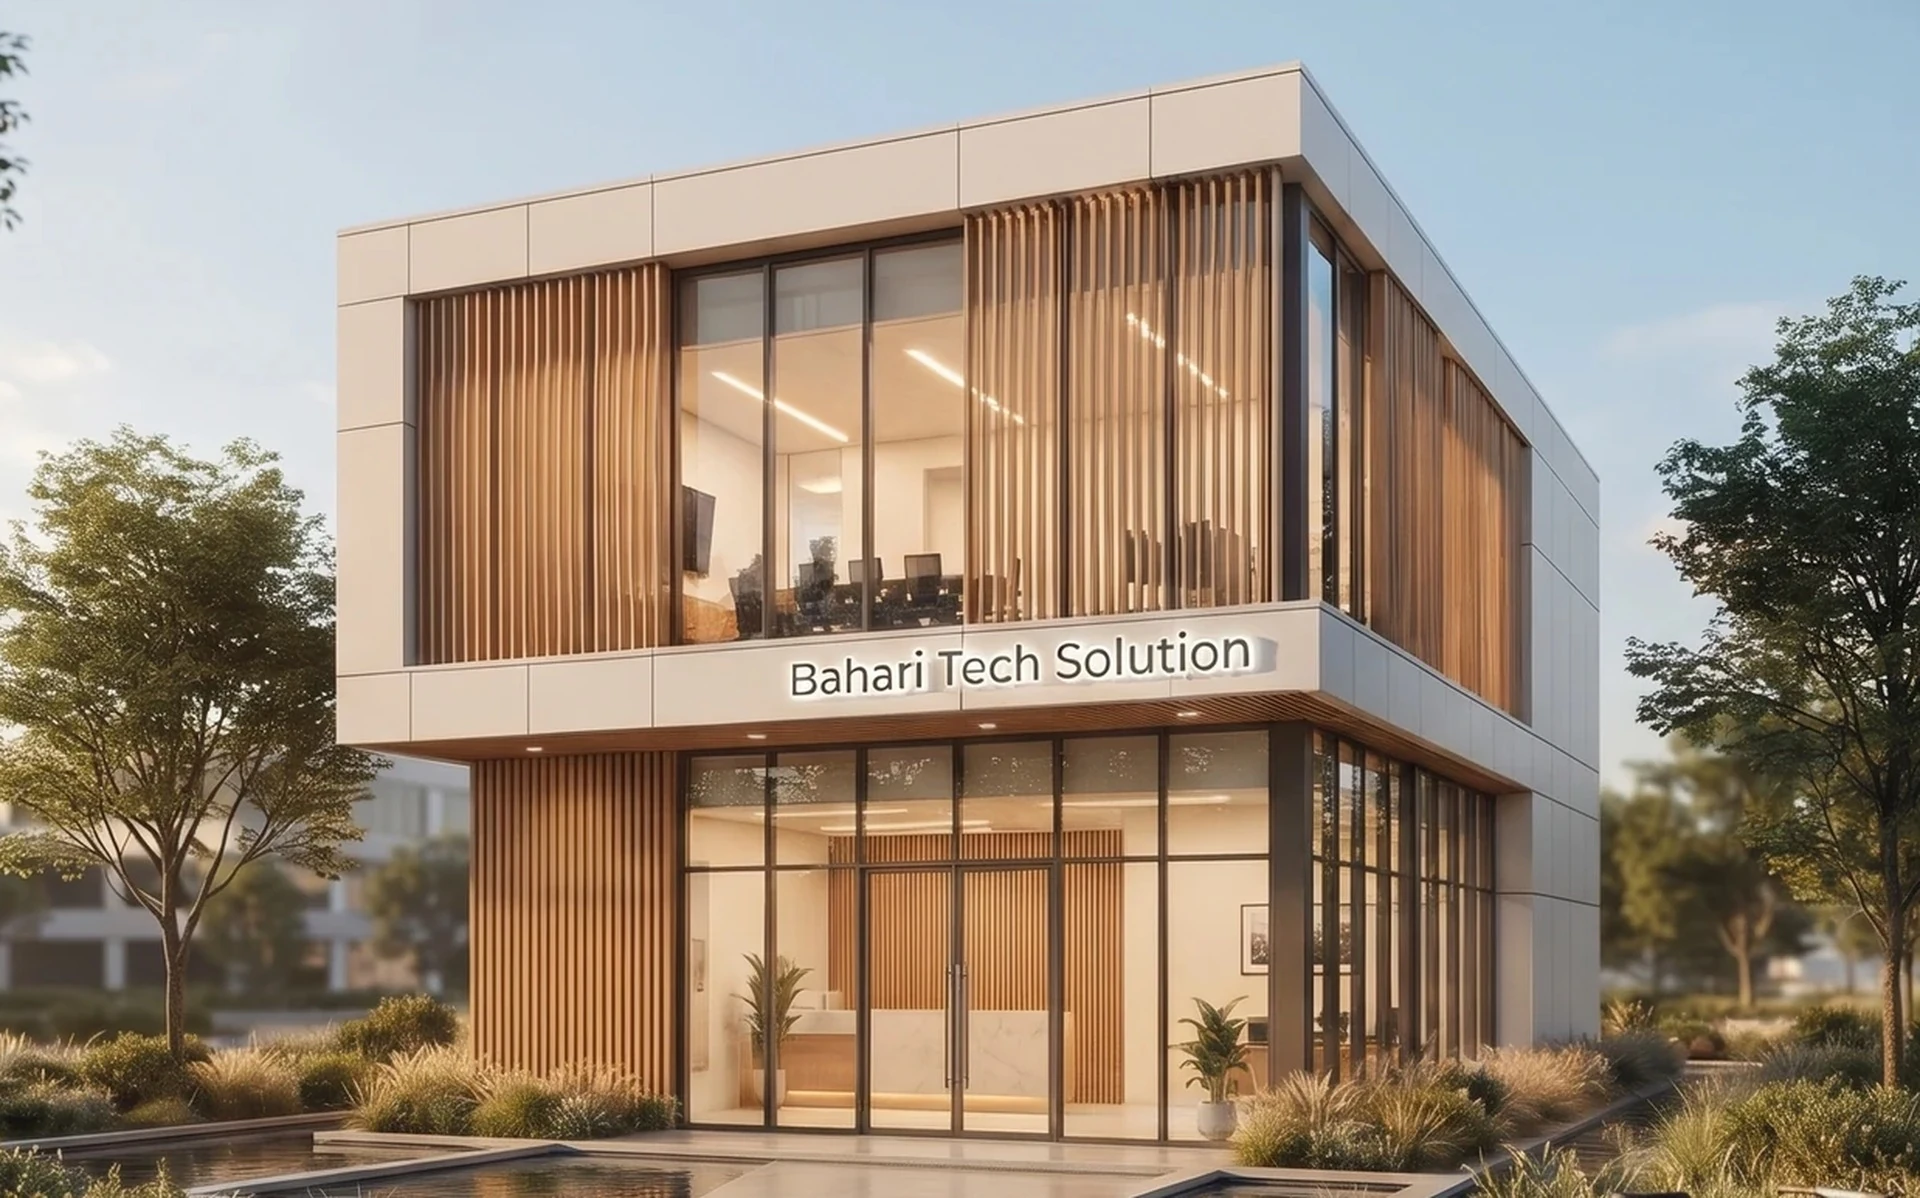
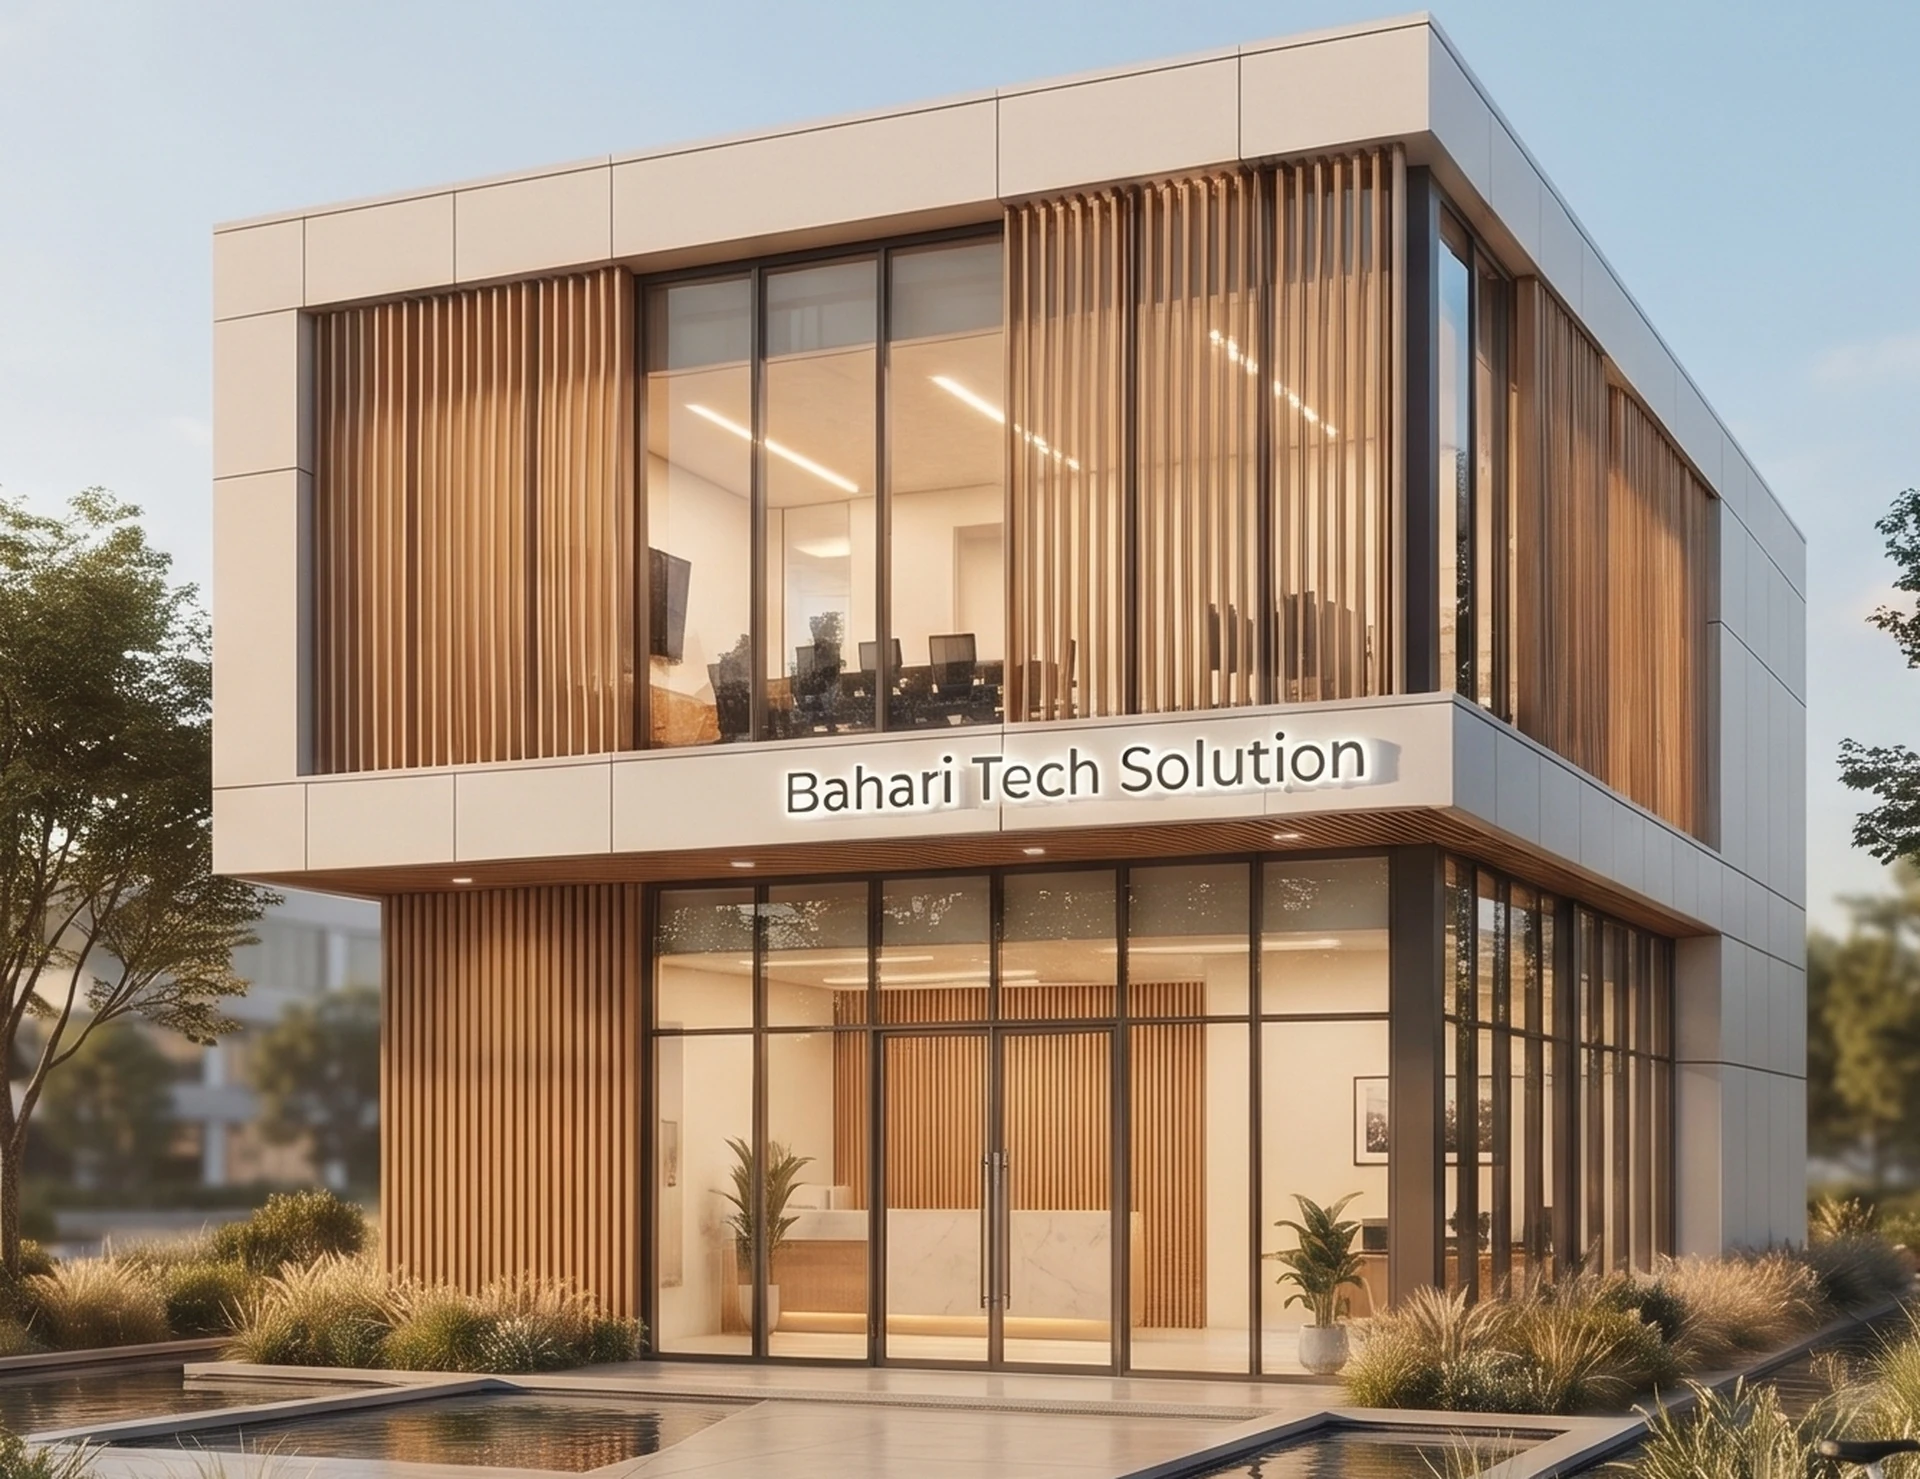
fix(about): zoom in kantor_bts.webp framing to match user exact crop specifications

diff --git a/src/components/sections/welcome-section.tsx b/src/components/sections/welcome-section.tsx
@@ -111,9 +111,9 @@ export function WelcomeSection() {
                   src="/images/kantor/kantor_bts.webp"
                   alt="Gedung Kantor dan Pusat Operasional Rekayasa CV. Bahari Tech Solution"
                   width={1920}
-                  height={1200}
+                  height={1479}
                   priority
-                  className="w-full h-[230px] sm:h-[275px] lg:h-[315px] object-cover object-center group-hover:scale-[1.02] transition-transform duration-700 ease-out"
+                  className="w-full h-[250px] sm:h-[300px] lg:h-[345px] object-cover object-center group-hover:scale-[1.02] transition-transform duration-700 ease-out"
                 />
               </div>
             </div>
